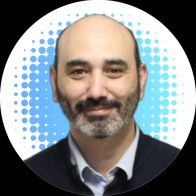
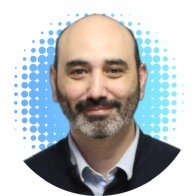
feat: using transparent png image for profile picture

diff --git a/index.html b/index.html
@@ -188,7 +188,7 @@
 	</script>
 	<div class="header">
 		<div class="header_info">
-			<img src="vicente.jpg" alt="Vicente Herrera" class="photo" /> 
+			<img src="vicente.png" alt="Vicente Herrera" class="photo" /> 
 			<h1>Vicente Herrera</h1>
 			<h2>Cloud Native Security</h2><br />
 			<a href="mailto:vicenteherrera@vicenteherrera.com"><img src="email_icon.png" alt="" style="vertical-align: middle; margin: 3px 8px 3px 0;" />vicenteherrera@vicenteherrera.com</a>
